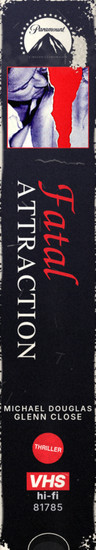
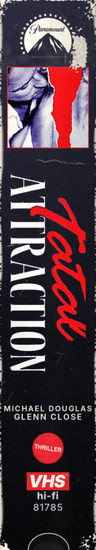
2020 shelf, batch 4: titles lifted or cut off the posters
Claude-Session: https://claude.ai/code/session_01RnhGoM3q9rJViPw2yFGMgc

Changed region(s): [[0.0938, 0.3091, 0.9062, 0.68]]

diff --git a/spinegen/tapes.py b/spinegen/tapes.py
@@ -3569,73 +3569,73 @@ std('the-weight-of-gold-2020', ('grad', [(0, (50, 50, 50)), (.6, (18, 18, 18)), 
     photo=ph(.65, .3, .45, 1.0), pb=(214, 180, 90), lg=WHT, lw=.6, order='LPTCF', credit=['A DOCUMENTARY'], ccol=(214, 180, 90),
     ft='a', vbox=(214, 180, 90), vink=(18, 18, 18), fcol=(190, 190, 190), fin=MINT)
 
-# The Count of Monte Cristo (2002): Château d'If torch-red, the white script and caps (typeset), Edmond and Mercédès
+# The Count of Monte Cristo (2002): Château d'If torch-red, the white script and caps lifted off the poster, Edmond and Mercédès
 std('the-count-of-monte-cristo-2002', ('grad', [(0, (170, 50, 20)), (.6, (70, 20, 8)), (1, (10, 4, 2))]), WHT,
-    [T('The Count of', 'ter', 32, WHT, track=.1), T('Monte Cristo', 'cho', 96, WHT)], tgap=6,
+    L((0.04, 0.742, 0.76, 0.962), 170, WHT, mode='key', key=(245, 245, 245), t=(40, 90), speck=0), tgap=6,
     photo=ph(.55, .45, .4, 1.0), pb=WHT, lg=WHT, lw=.6, order='LPTCF', credit=['JIM CAVIEZEL', 'GUY PEARCE'], ccol=WHT,
     ft='a', vbox=WHT, vink=(70, 20, 8), fcol=(230, 200, 190), fin=WORN, seed=2002)
 
-# Unbelievable: the poster's mist teal, white spaced condensed capitals (typeset), Marie in her red jacket
+# Unbelievable: the poster's mist teal, the white spaced brushed capitals lifted, Marie in her red jacket
 std('unbelievable-2019', ('grad', [(0, (150, 180, 180)), (.6, (90, 110, 110)), (1, (40, 30, 26))]), WHT,
-    T('UNBELIEVABLE', 'hcnb', 70, WHT, squeeze=.8, track=.3),
+    L((0.103, 0.388, 0.899, 0.458), 70, WHT, mode='key', key=(250, 250, 250), t=(30, 70)),
     photo=ph(.4, .6, .45, 1.0), pb=(200, 60, 40), lg=WHT, lw=.6, order='LPTCF', credit=['KAITLYN DEVER', 'TONI COLLETTE'], ccol=WHT,
     ft='a', vbox=(200, 60, 40), fcol=WHT, fin=MINT)
 
-# Defending Jacob: dim kitchen green-black, white spaced capitals with the bold JACOB (typeset), Jacob between his parents
+# Defending Jacob: dim kitchen green-black, the white spaced DEFENDING JACOB lifted off the poster, Jacob between his parents
 std('defending-jacob-2020', ('grad', [(0, (60, 70, 60)), (.6, (22, 26, 22)), (1, (6, 8, 6))]), WHT,
-    TT([('DEFENDING', (220, 220, 214)), ('JACOB', WHT)], 'her', 62, sp=.3, track=.25),
+    L((0.037, 0.858, 0.958, 0.904), 62, WHT, mode='light'),
     photo=ph(.6, .35, .4, 1.0), pb=WHT, lg=WHT, lw=.6, order='LPTCF', credit=['CHRIS EVANS', 'MICHELLE DOCKERY'], ccol=WHT,
     ft='a', vbox=WHT, vink=(22, 26, 22), fcol=(190, 196, 190), fin=MINT)
 
-# The Irishman: a 2-tape box (209 minutes), slate blue-grey, the red serif capitals (typeset), Frank, Russell and Jimmy
+# The Irishman: a 2-tape box (209 minutes), slate blue-grey, the poster's red serif THE IRISHMAN cut off it, Frank, Russell and Jimmy
 std('the-irishman-2019', ('grad', [(0, (70, 80, 90)), (.6, (30, 34, 40)), (1, (8, 10, 12))]), (200, 30, 30),
-    [T('THE', 'terb', 50, (214, 40, 40), track=.2), T('IRISHMAN', 'terb', 150, (214, 40, 40), track=.04)],
+    LC([(0.43, 0.147, 0.931, 0.237)], 150, cuts=[key_cut(lambda a: (a[..., 0] > .5) & (a[..., 1] < .3))]),
     photo=ph(.55, .42, .6, .5), pb=(204, 34, 34), lg=WHT, lw=.5, order='LPTCSF', tgap=10, credit=['A MARTIN SCORSESE', 'PICTURE'], ccol=WHT,
     stick=TWOST((204, 34, 34), WHT), ft='c', vbox=WHT, vink=(30, 34, 40), fcol=(200, 206, 214), fin=MINT, **TWO)
 
-# El Camino: A Breaking Bad Movie: the poster's red, white condensed capitals in the keyline box (typeset), Jesse
+# El Camino: A Breaking Bad Movie: the poster's red, the white condensed EL CAMINO in its keyline box and the subtitle lifted, Jesse
 std('el-camino-a-breaking-bad-movie-2019', ('grad', [(0, (180, 30, 24)), (.6, (100, 14, 10)), (1, (24, 4, 2))]), WHT,
-    [T('EL CAMINO', 'hcnb', 92, WHT, squeeze=.78, bold=.6), T('A BREAKING BAD MOVIE', 'herb', 22, WHT, track=.3)], tgap=8,
+    [L((0.19, 0.703, 0.81, 0.845), 110, WHT, mode='light', speck=0), L((0.19, 0.85, 0.81, 0.893), 22, WHT, mode='light', speck=0)], tgap=8,
     photo=ph(.52, .2, .45, 1.0), pb=WHT, lg=WHT, lw=.6, order='LPTCF', credit=['AARON PAUL'], ccol=WHT,
     ft='a', vbox=WHT, vink=(100, 14, 10), fcol=(240, 210, 206), fin=MINT)
 
-# Class Action Park: storm grey, the sign's rainbow capitals (typeset), the park's sign (no logo file: the label in type)
+# Class Action Park: storm grey, the sign's rainbow capitals (typeset: on the poster they are 3-D blocks standing out from a tilted sign, so a cut brings the sign with them), the park's sign (no logo file: the label in type)
 std('class-action-park-2020', ('grad', [(0, (110, 116, 120)), (.6, (60, 66, 70)), (1, (30, 40, 30))]), WHT,
     TT([('CLASS', (240, 70, 140)), ('ACTION', (250, 200, 40)), ('PARK', (60, 180, 240))], 'popb', 76, sp=.2, outline=((20, 20, 30), 1.8)),
     photo=ph(.4, .32, .5, 1.0), pb=WHT, studio=['HBO MAX'], scol=WHT, order='lPTCF', credit=['A DOCUMENTARY'], ccol=WHT,
     ft='a', vbox=WHT, vink=(60, 66, 70), fcol=WHT, fin=MINT)
 
-# Basic Instinct (1992): a real rental, the poster's blue-white, red BASIC and black INSTINCT (typeset), Nick and Catherine
+# Basic Instinct (1992): a real rental, the poster's blue-white, its red BASIC and black INSTINCT (the ice pick for its I) cut off it, Nick and Catherine
 std('basic-instinct-1992', ('grad', [(0, (200, 214, 230)), (.6, (150, 170, 196)), (1, (40, 54, 80))]), (200, 30, 30),
-    TT([('BASIC', (204, 30, 30)), ('INSTINCT', (20, 20, 24))], 'hcnb', 92, sp=.2, squeeze=.72, bold=.8),
+    LC([(0.099, 0.722, 0.914, 0.922)], 170, cuts=[key_cut(lambda a: (_lum(a) < .25) | ((a[..., 0] > .6) & (a[..., 1] < .3)))]),
     photo=ph(.5, .4, .6, 1.0), pb=(204, 30, 30), lg=(20, 20, 24), lw=.6, order='LPTCSF', credit=['MICHAEL DOUGLAS', 'SHARON STONE'], ccol=WHT,
     stick=PRC(['$2.49', 'THRILLER']), ft='a', vbox=(204, 30, 30), fcol=WHT, fin=RENTAL, seed=1992)
 
-# A Simple Favor: the poster's pink and teal blocks, thin grey capitals (typeset), Emily with her martini
+# A Simple Favor: the poster's pink and teal blocks, the thin grey A Simple Favor lifted, Emily with her martini
 std('a-simple-favor-2018', ('grad', [(0, (244, 190, 190)), (.5, (200, 214, 214)), (1, (40, 180, 190))]), (70, 70, 74),
-    T('A Simple Favor', 'her', 70, (72, 72, 76)),
+    L([(0.13, 0.335, 0.205, 0.385), (0.035, 0.38, 0.342, 0.432), (0.09, 0.432, 0.342, 0.487)], 76, (50, 50, 54), mode='dark', speck=0, gapf=.35, grow=.06),
     photo=ph(.55, .2, .35, 1.0), pb=(72, 72, 76), lg=(30, 30, 30), lw=.6, order='LPTCF', credit=['ANNA KENDRICK', 'BLAKE LIVELY'], ccol=(30, 30, 30),
     ft='a', vbox=(72, 72, 76), fcol=(30, 30, 30), fin=MINT)
 
-# Don't F**k with Cats: screen black, the yellow block capitals (typeset), the cat on the video
+# Don't F**k with Cats: screen black, the poster's yellow block capitals lifted, the cat on the video
 std('don-t-f-k-with-cats-hunting-an-internet-killer-2019', ('grad', [(0, (30, 40, 50)), (.6, (12, 16, 20)), (1, (4, 4, 6))]), (246, 214, 40),
-    [T("DON'T F**K WITH CATS", 'hcnb', 70, (248, 216, 44), squeeze=.84, bold=.6), T('HUNTING AN INTERNET KILLER', 'hcnb', 26, (248, 216, 44), track=.12)], tgap=8,
+    [L((0.046, 0.851, 0.959, 0.905), 70, (248, 216, 44), mode='key', key=(240, 210, 50), t=(70, 150)), L((0.046, 0.907, 0.958, 0.941), 26, (248, 216, 44), mode='key', key=(240, 210, 50), t=(70, 150))], tgap=8,
     photo=ph(.6, .4, .5, 1.0), pb=(248, 216, 44), lg=WHT, lw=.6, order='LPTCF', credit=['THE COMPLETE', 'DOCUSERIES'], ccol=(248, 216, 44),
     ft='a', vbox=(248, 216, 44), vink=(12, 16, 20), fcol=(190, 196, 206), fin=MINT)
 
-# Fatal Attraction (1987): a real rental, black and the torn red, the red script and white capitals (typeset), Dan and Alex
+# Fatal Attraction (1987): a real rental, black and the torn red, the poster's red script Fatal and white ATTRACTION cut off it, Dan and Alex
 std('fatal-attraction-1987', ('grad', [(0, (40, 40, 60)), (.6, (14, 14, 22)), (1, (4, 4, 6))]), WHT,
-    [T('Fatal', 'cho', 100, (226, 30, 40)), T('ATTRACTION', 'ter', 52, WHT, track=.06)], tgap=6,
+    LC([(0.148, 0.745, 0.933, 0.918)], 150, cuts=[key_cut(lambda a: (_lum(a) > .85) | ((a[..., 0] > .7) & (a[..., 1] < .25)))]), tgap=6,
     photo=ph(.4, .3, .6, 1.0), pb=(226, 30, 40), lg=WHT, lw=.6, order='LPTCSF', credit=['MICHAEL DOUGLAS', 'GLENN CLOSE'], ccol=WHT,
     stick=flow(dot, 70, ['THRILLER'], (226, 30, 40), d=62), ft='a', vbox=(226, 30, 40), fcol=(200, 200, 210), fin=RENTAL, seed=1987)
 
-# A Time to Kill (1996): a real rental, Canton night black, the red condensed capitals (typeset), Ellen at the head
+# A Time to Kill (1996): a real rental, Canton night black, the poster's red condensed A TIME TO KILL cut off it in its two lines, Ellen at the head
 std('a-time-to-kill-1996', ('grad', [(0, (40, 30, 30)), (.6, (14, 10, 10)), (1, (4, 4, 4))]), (210, 30, 30),
-    T('A TIME TO KILL', 'hcnb', 94, (214, 32, 32), squeeze=.7, bold=.6),
+    LC([(0.085, 0.267, 0.514, 0.443), (0.085, 0.445, 0.537, 0.622)], 94, gapf=.25, valign='base', margin=0, cuts=[key_cut(lambda a: (a[..., 0] > .6) & (a[..., 1] < .3))] * 2),
     photo=ph(.6, .2, .35, 1.0), pb=(214, 32, 32), lg=WHT, lw=.6, order='LPTCSF', credit=['MATTHEW McCONAUGHEY', 'SANDRA BULLOCK'], ccol=WHT,
     stick=PRC(['3 NIGHTS', '$2.99']), ft='a', vbox=(214, 32, 32), fcol=(200, 196, 196), fin=RENTAL, seed=1996)
 
-# Sorry, Wrong Number (1948): an old tape, the poster's lemon yellow, the red slab capitals (typeset), Leona at the telephone
+# Sorry, Wrong Number (1948): an old tape, the poster's lemon yellow, red slab capitals (typeset: the poster's climb in a diagonal stair over Leona and the phone cord), Leona at the telephone
 std('sorry-wrong-number-1948', ('grad', [(0, (246, 226, 70)), (.6, (230, 200, 50)), (1, (140, 110, 20))]), (200, 40, 40),
     T('SORRY, WRONG NUMBER', 'bonb', 64, (204, 42, 42)),
     photo=ph(.2, .72, .4, 1.0), pb=(204, 42, 42), lg=(30, 26, 20), lw=.6, order='LPTCF', credit=['BARBARA STANWYCK', 'BURT LANCASTER'], ccol=(30, 26, 20),
